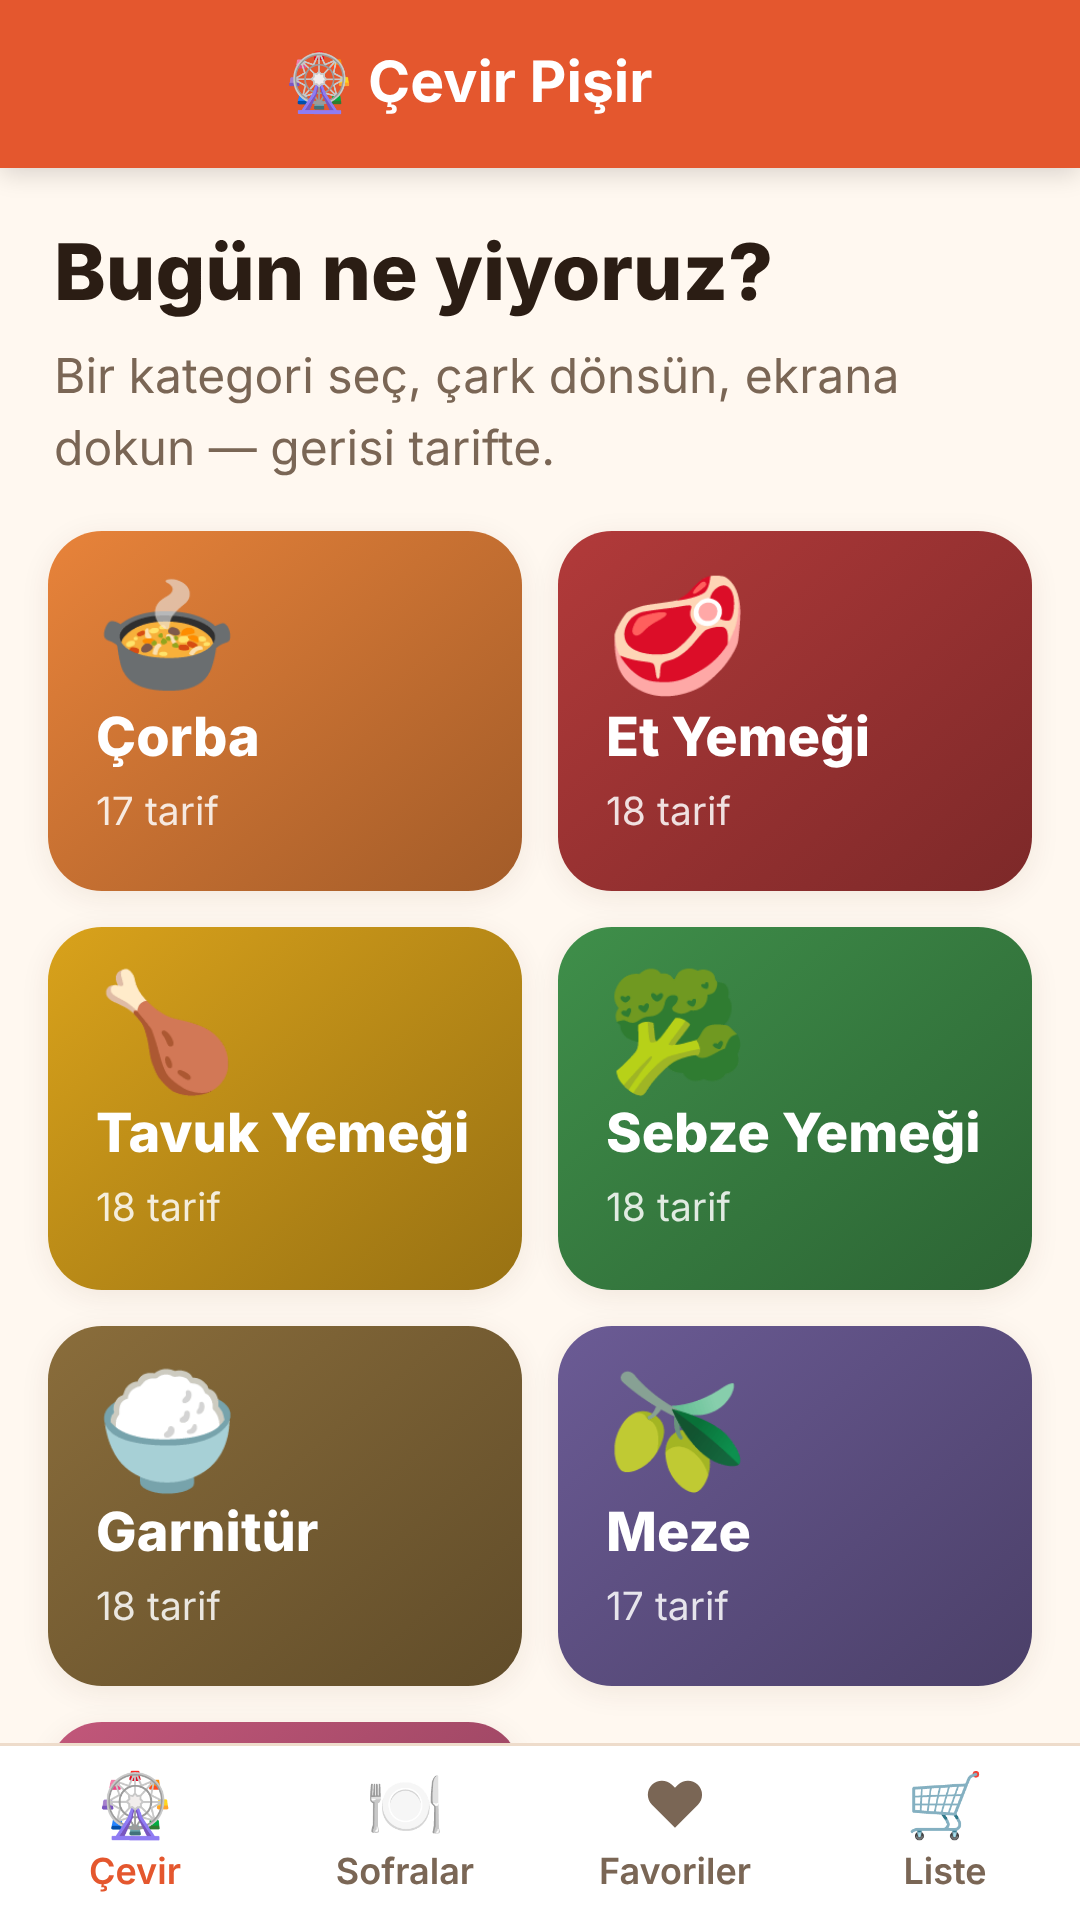
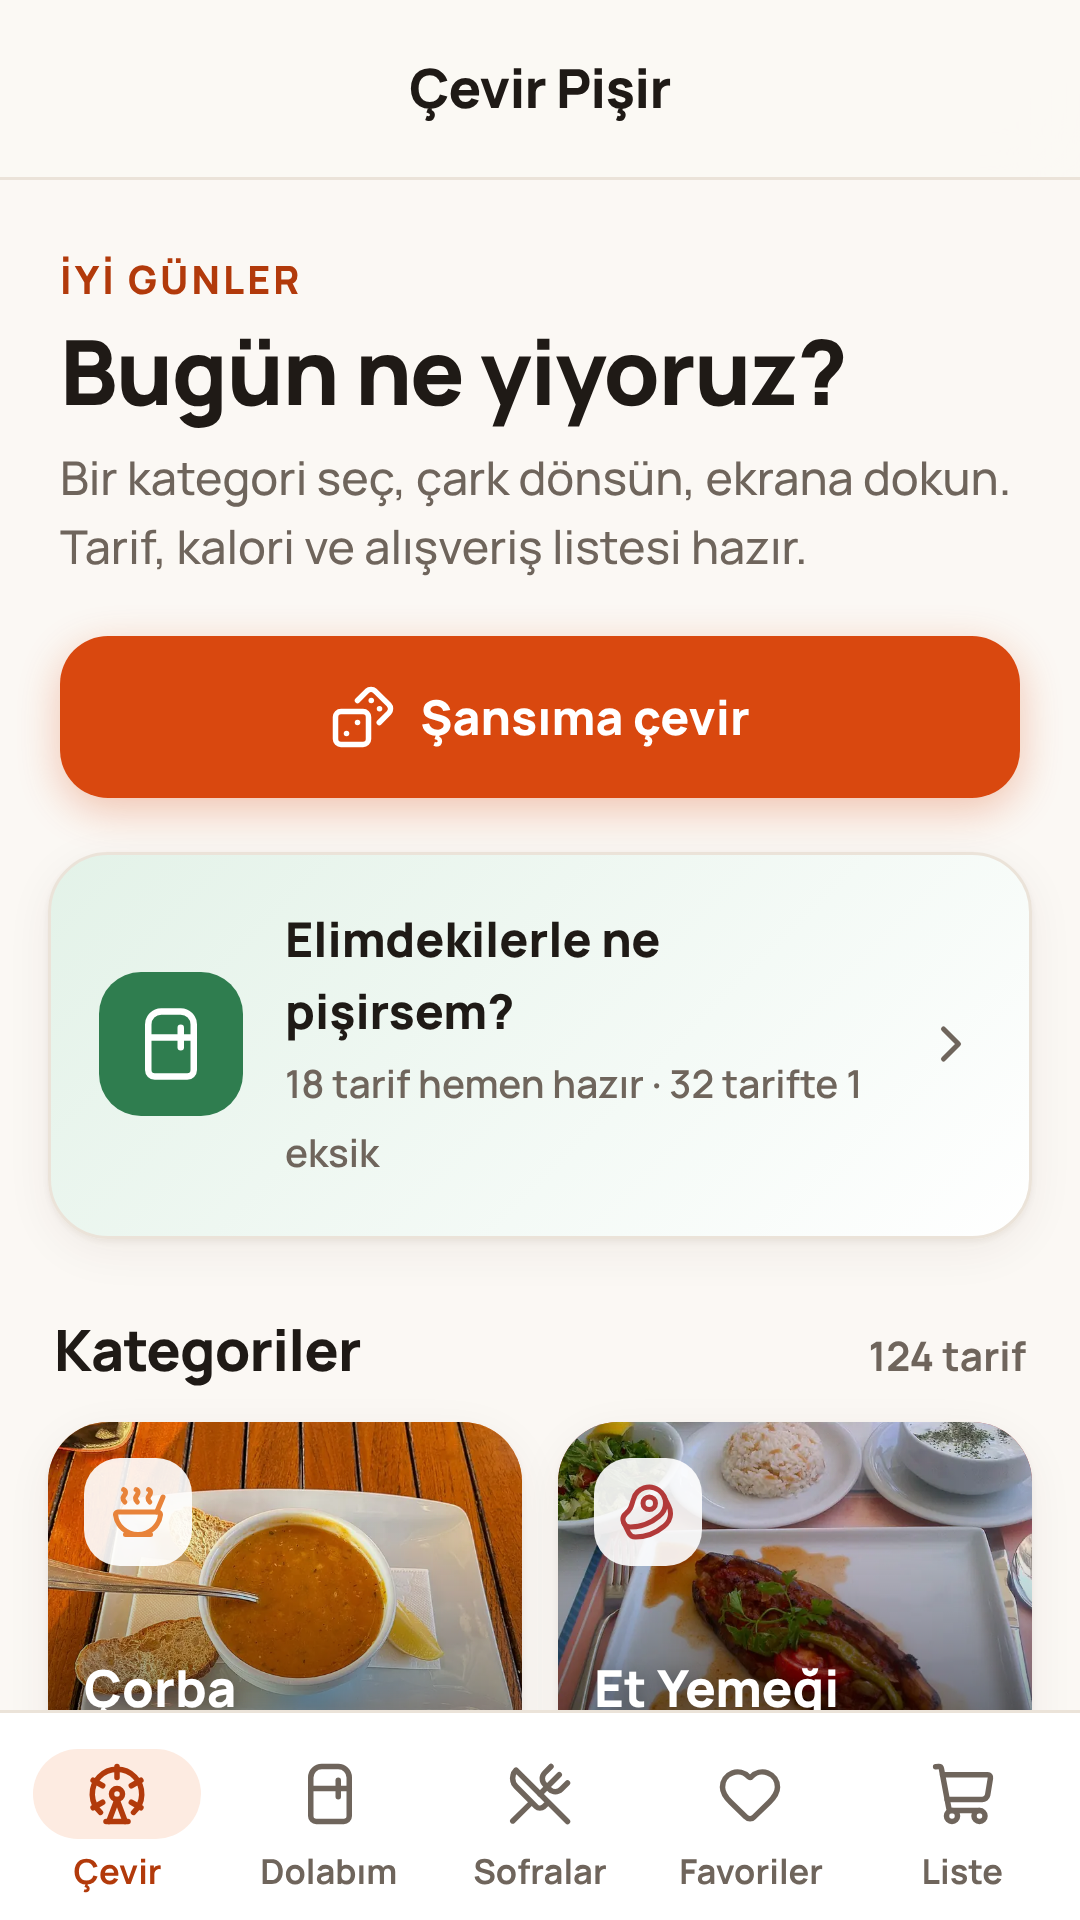
Play Store: yeni tasarımla 8 ekran görüntüsü, fotoğraflı öne çıkan görsel, güncel metinler
Claude-Session: https://claude.ai/code/session_0121PCTVNh1HFiAmkvcVHjbu

diff --git a/play-store/magaza-metinleri.md b/play-store/magaza-metinleri.md
@@ -4,7 +4,7 @@
 Çevir Pişir: Bugün Ne Yesek?
 
 ## Kısa açıklama (en fazla 80 karakter)
-Çarkı çevir, yemeğini seç! 124 tarif, kalori, diyabet dostu menü, market listesi
+Çarkı çevir, yemeğini seç! 124 tarif, kalori, dolabındakilerle tarif ve menü
 
 ## Tam açıklama (en fazla 4000 karakter)
 "Akşama ne pişirsem?" sorusuna en eğlenceli cevap: Çevir Pişir! 🎡
@@ -18,14 +18,19 @@ Kategori seç, çark dönsün, ekrana dokun — yemeğin, tarifi, kalorisi ve al
 Çark arada bir mutfağı kapatır: dışarıdan sipariş ver! Lahmacun, pide, mantı… Tek dokunuşla sipariş uygulamasına geç.
 
 📖 HER TARİFTE
+• İştah açan yemek fotoğrafı
 • 1 porsiyonun ortalama kalorisi
 • Protein – karbonhidrat – yağ dengesi ve kısa yorum
 • Kişi sayısına göre otomatik ölçeklenen malzemeler
 • Adım adım tarif ve YouTube'da yapılış videoları
 • Kaynaklar: Vikipedi, besin veri tabanları (USDA, TÜRKOMP)
+• Tarifi ya da çarkın seçimini tek dokunuşla paylaş
 
-🛒 EVDE NE VAR, NE YOK?
-Evde olan malzemeleri işaretle, eksikler kendiliğinden listelensin. Tek dokunuşla alışveriş listesine ekle; birden çok yemeğin malzemeleri birleşir, reyonlara ayrılır. Listeyi WhatsApp'tan paylaş ya da Getir, Migros Hemen gibi marketlerde ara.
+🧊 DOLABIM: ELİMDEKİLERLE NE PİŞİRSEM?
+Evdeki malzemeleri bir kez işaretle; "hemen yapabileceklerin", "1 malzeme eksik" ve "2 malzeme eksik" tarifler listelensin. Sofra menüsünü de dolabındakilerle kurabilirsin.
+
+🛒 ALIŞVERİŞ LİSTESİ
+Eksik malzemeler kendiliğinden listelenir. Tek dokunuşla alışveriş listesine ekle; birden çok yemeğin malzemeleri birleşir, reyonlara ayrılır. Listeyi WhatsApp'tan paylaş ya da Getir, Migros Hemen gibi marketlerde ara.
 
 🎉 DAVET VE İFTAR SOFRASI
 Çorbadan tatlıya eksiksiz menü tek dokunuşla hazır. Menü rastgele değil, bilimsel ölçütlerle kurulur:
@@ -43,9 +48,10 @@ Her yemekte karbonhidrat ve eklenmiş şekere göre 🟢 uygun / 🟡 ölçülü
 Ne içmeli, nasıl hareket etmeli? Baklagilli yemekte rezene çayı, acılıda ayran; kısa yürüyüş ve esneme önerileri; "bu porsiyonu yakmak için kaç dakika yürümeli?" hesabı.
 
 🔒 GİZLİLİK
-Hesap yok, reklam yok, veri toplama yok. Listeleriniz ve favorileriniz yalnızca telefonunuzda saklanır.
+Hesap yok, reklam yok, veri toplama yok. İnternetsiz çalışır; listeleriniz, dolabınız ve favorileriniz yalnızca telefonunuzda saklanır.
 
 Not: Besin değerleri malzemelerden hesaplanan yaklaşık değerlerdir; diyabet etiketleri ve öneriler genel bilgilendirme amaçlıdır, tıbbi tavsiye yerine geçmez.
+Yemek fotoğrafları: Wikimedia Commons katkıcıları (CC BY / CC BY-SA ve diğer özgür lisanslar); yazar ve lisanslar uygulamanın Kaynaklar ekranında.
 
 ## Kategori
 Yeme ve İçme (Food & Drink)
@@ -58,7 +64,17 @@ Tarifler, Yemek planlama, Alışveriş listesi
 - Web sitesi: https://github.com/burhanettiny/cevir-pisir
 - Gizlilik politikası URL'si: https://github.com/burhanettiny/cevir-pisir/blob/main/play-store/gizlilik-politikasi.md
 
-## Sürüm notları (en fazla 500 karakter) — ilk yayın
+## Sürüm notları (en fazla 500 karakter) — güncelleme (1.0.x, yeni tasarım)
+Yeni görünüm ve yeni özellikler! 🎡
+• Tariflerde gerçek yemek fotoğrafları, yenilenen şık tasarım
+• Dolabım: evdekileri işaretle, "Elimdekilerle ne pişirsem?" ile yapabileceklerini gör
+• Sofrayı dolabındakilerle kur
+• Çarkın seçimini ve tarifleri paylaş
+• Tüm tariflerde arama
+• Geri tuşunda çıkış onayı
+• İnternetsiz çalışır
+
+## Sürüm notları — ilk yayın
 Çevir Pişir yayında! 🎡
 • 7 kategoride 124 tarif ve "dışarıdan sipariş" jokeri
 • Kalori, protein–karbonhidrat–yağ dengesi

diff --git a/play-store/YUKLEME-REHBERI.md b/play-store/YUKLEME-REHBERI.md
@@ -9,7 +9,7 @@ Bu klasörde Play Console'a yüklemek için gereken her şey var:
 | `gizlilik-politikasi.md` | Gizlilik politikası (Play'e bu dosyanın GitHub adresi verilir) |
 | `gorseller/simge-512.png` | Uygulama simgesi (512×512, 32 bit PNG) |
 | `gorseller/one-cikan-gorsel-1024x500.png` | Öne çıkan görsel (feature graphic) |
-| `gorseller/ekran-*.png` | 10 telefon ekran görüntüsü (1080×1920) |
+| `gorseller/ekran-*.png` | 8 telefon ekran görüntüsü (1080×1920; Play bir cihaz türü için en fazla 8 kabul eder) |
 
 Yüklenecek paket (**AAB**) GitHub Actions tarafından otomatik derlenir; bunun için bir kez aşağıdaki 1. adımı yapmanız yeterli.
 
@@ -50,4 +50,4 @@ Depoya her değişiklik gönderildiğinde Actions yeni bir sürüm numarasıyla 
 - Paket adı: `io.github.burhanettiny.cevirpisir` (yayından sonra değiştirilemez).
 - En düşük Android sürümü: 7.0 (API 24) · Hedef API: 36.
 - Yükleme anahtarını kaybederseniz: Play Console → *Test ve yayınla > Uygulama bütünlüğü > Uygulama imzalama* → **Yükleme anahtarını sıfırlama isteği**.
-- Ekran görüntülerinde yemek görselleri yerine çizimler görünüyor; uygulama internete bağlıyken Vikipedi fotoğraflarını gösterir. İsterseniz telefondan kendi ekran görüntülerinizi de yükleyebilirsiniz (9:16, en az 1080 px önerilir).
+- Ekran görüntüleri ve öne çıkan görseldeki yemek fotoğrafları Wikimedia Commons'tan, özgür lisanslarla alındı; kaynak satırı tam açıklamanın sonunda.
